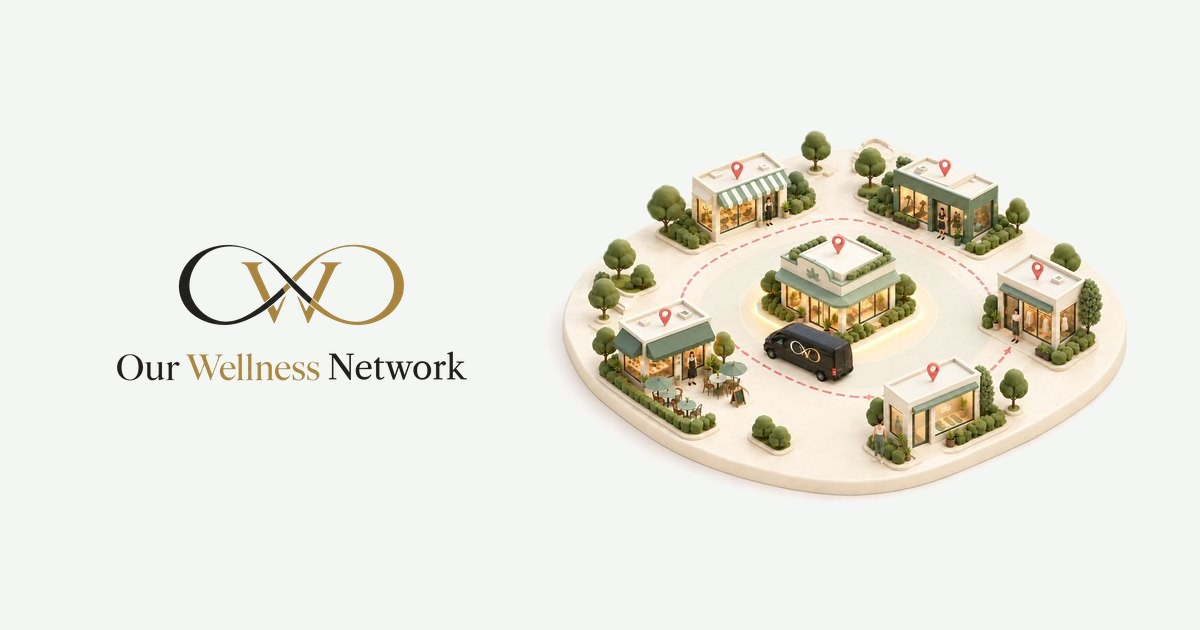
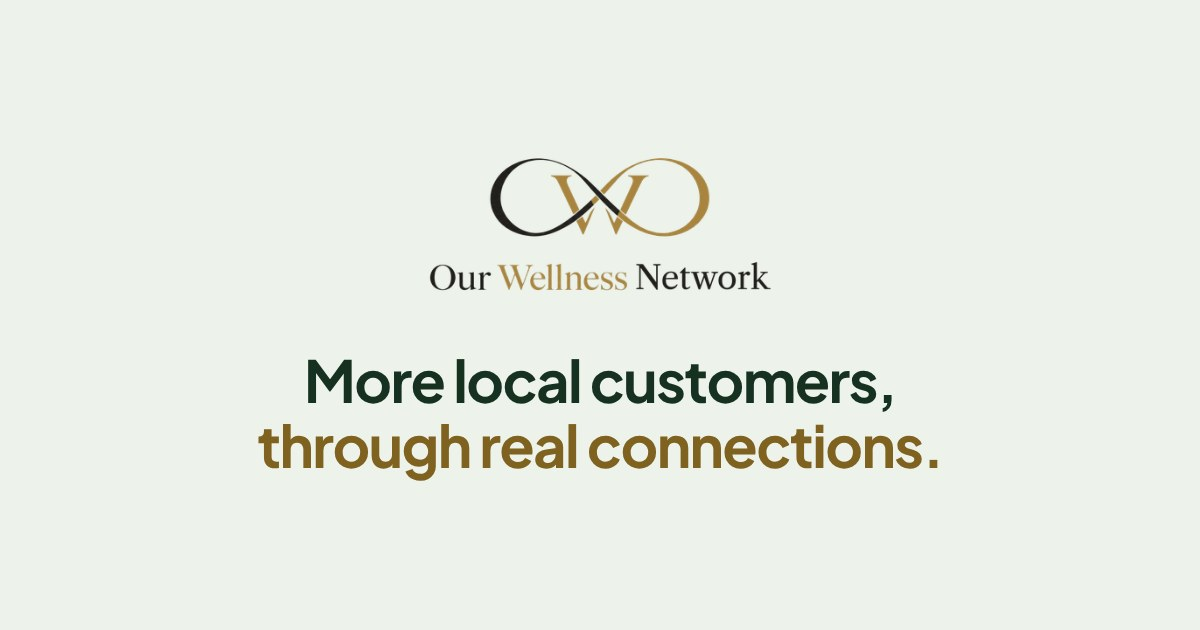
Simplify the site: review fixes
- Pricing and terms no longer assert a minimum term the owner has not confirmed: "after any
  minimum term agreed in writing, plans run month to month, with 30 days' notice".
- Treats are described as modest (coffee, pastries and snacks) where they are explained;
  exclusivity reads as the terms put it (partners who sign on, for as long as you are a client).
- Add-on pages: the repeated field-team paragraph becomes one plain line, the second staff-card
  explanation and "cherry on top" are gone, and the card row lines up without its icons.
- The portal screenshot gets the full width from 760px (cropped to the totals), the phone crop
  ends at the tiles, and smooth-scroll animation is off.
- /referral-network 301s to the home page so an old #section carries through; site.js maps the
  old How it works sections to the new ones. The dead hero-video rule and placeholder file go.
- Header without JavaScript stays on one line from 760px; the expo page logo gets its room back;
  the footer sits at the bottom of short pages.
- The share image is the logo and the headline on the page colour, no illustration.

Claude-Session: https://claude.ai/code/session_01QqY3Uip16oYiFzTZFxaAGH

Changed region(s): [[0.0925, 0.2111, 0.9558, 0.7841], [0.4008, 0.2413, 0.4625, 0.3619], [0.4317, 0.3619, 0.4625, 0.3921]]

diff --git a/index.html b/index.html
@@ -20,7 +20,7 @@
 <meta property="og:image" content="https://ouroptimization.com/assets/img/og-network.jpg">
 <meta property="og:image:width" content="1200">
 <meta property="og:image:height" content="630">
-<meta property="og:image:alt" content="The Our Wellness Network logo beside an illustrated neighborhood: a black van with the logo outside a local business, with five shops around it.">
+<meta property="og:image:alt" content="The Our Wellness Network logo above the line: More local customers, through real connections.">
 <meta name="twitter:card" content="summary_large_image">
 <meta name="twitter:title" content="Our Wellness Network | More Local Customers, Through Real Connections">
 <meta name="twitter:description" content="Our team visits nearby businesses in Oak Brook, Lombard, Elmhurst, Naperville, Downers Grove and Hinsdale, introduces your business and leaves your approved materials.">
@@ -90,7 +90,7 @@
       </ul>
     </div>
     <figure class="s-shot">
-      <picture><source media="(max-width:759.98px)" type="image/avif" srcset="/assets/img/portal2-phone-routes-390.avif 390w, /assets/img/portal2-phone-routes-780.avif 780w" sizes="min(300px, 82vw)" width="780" height="1688"><source media="(max-width:759.98px)" type="image/webp" srcset="/assets/img/portal2-phone-routes-390.webp 390w, /assets/img/portal2-phone-routes-780.webp 780w" sizes="min(300px, 82vw)" width="780" height="1688"><source media="(max-width:759.98px)" srcset="/assets/img/portal2-phone-routes-780.jpg 780w" sizes="min(300px, 82vw)" width="780" height="1688"><source type="image/avif" srcset="/assets/img/portal2-routes-800.avif 800w, /assets/img/portal2-routes-1280.avif 1280w, /assets/img/portal2-routes-1920.avif 1920w" sizes="(min-width:1180px) 640px, (min-width:900px) 56vw, calc(100vw - 64px)" width="1280" height="800"><source type="image/webp" srcset="/assets/img/portal2-routes-800.webp 800w, /assets/img/portal2-routes-1280.webp 1280w, /assets/img/portal2-routes-1920.webp 1920w" sizes="(min-width:1180px) 640px, (min-width:900px) 56vw, calc(100vw - 64px)" width="1280" height="800"><img src="/assets/img/portal2-routes-1280.jpg" width="1280" height="800" alt="Screenshot of the portal's sample account: totals for stops visited, stops still to visit, referral cards handed out, staff sign-ups, bookings by the front desk and businesses that joined." loading="lazy" decoding="async"></picture>
+      <picture><source media="(max-width:759.98px)" type="image/avif" srcset="/assets/img/portal2-phone-routes-390.avif 390w, /assets/img/portal2-phone-routes-780.avif 780w" sizes="min(300px, 82vw)" width="780" height="1688"><source media="(max-width:759.98px)" type="image/webp" srcset="/assets/img/portal2-phone-routes-390.webp 390w, /assets/img/portal2-phone-routes-780.webp 780w" sizes="min(300px, 82vw)" width="780" height="1688"><source media="(max-width:759.98px)" srcset="/assets/img/portal2-phone-routes-780.jpg 780w" sizes="min(300px, 82vw)" width="780" height="1688"><source type="image/avif" srcset="/assets/img/portal2-routes-800.avif 800w, /assets/img/portal2-routes-1280.avif 1280w, /assets/img/portal2-routes-1920.avif 1920w" sizes="(min-width:1100px) 960px, calc(100vw - 64px)" width="1280" height="800"><source type="image/webp" srcset="/assets/img/portal2-routes-800.webp 800w, /assets/img/portal2-routes-1280.webp 1280w, /assets/img/portal2-routes-1920.webp 1920w" sizes="(min-width:1100px) 960px, calc(100vw - 64px)" width="1280" height="800"><img src="/assets/img/portal2-routes-1280.jpg" width="1280" height="800" alt="Screenshot of the portal's sample account: totals for stops visited, stops still to visit, referral cards handed out, staff sign-ups, bookings by the front desk and businesses that joined." loading="lazy" decoding="async"></picture>
       <figcaption>Your client portal</figcaption>
     </figure>
   </div>
@@ -106,11 +106,11 @@
       </details>
       <details id="partners">
         <summary>Which businesses do you visit?<span class="sign" aria-hidden="true"></span></summary>
-        <div class="answer"><p>Businesses near you that share your customers and don&rsquo;t compete with you. Each partner agrees to promote one business of your kind: yours.</p></div>
+        <div class="answer"><p>Businesses near you that share your customers and don&rsquo;t compete with you. The ones that sign on as partners agree to promote one business of your kind, yours, for as long as you are a client.</p></div>
       </details>
       <details id="visits">
         <summary>What do you bring on a visit?<span class="sign" aria-hidden="true"></span></summary>
-        <div class="answer"><p>Your approved materials, coffee and treats, and a personal card for each staff member we meet. Treats are shared with the whole staff on every visit, whether or not anyone refers a customer. Each card has a tap tag and QR code, so you can see which partnerships are working.</p></div>
+        <div class="answer"><p>Your approved materials, a personal card for each staff member we meet, and modest treats: coffee, pastries and snacks. Treats are shared with the whole staff on every visit, whether or not anyone refers a customer. Each card has a tap tag and QR code, so you can see which partnerships are working.</p></div>
       </details>
       <details id="paid">
         <summary>Are partner businesses paid for referrals?<span class="sign" aria-hidden="true"></span></summary>

diff --git a/pricing.html b/pricing.html
@@ -4,7 +4,7 @@
 <meta charset="utf-8">
 <meta name="viewport" content="width=device-width, initial-scale=1">
 <title>Pricing: First Month $450, Then $600 or $1,100 | Our Wellness Network</title>
-<meta name="description" content="Your first month is $450, all in, with a written guarantee. Then $600 or $1,100 a month, month to month. For local businesses in Oak Brook, Elmhurst and Hinsdale.">
+<meta name="description" content="Your first month is $450, all in, with a written guarantee. Then $600 or $1,100 a month. For local businesses in Oak Brook, Elmhurst and Hinsdale.">
 <meta name="theme-color" content="#F3F6F2">
 <link rel="icon" href="/assets/owo-favicon.ico" sizes="16x16 32x32 48x48">
 <link rel="icon" type="image/png" sizes="32x32" href="/assets/owo-icon-32.png">
@@ -15,15 +15,15 @@
 <meta property="og:type" content="website">
 <meta property="og:site_name" content="Our Wellness Network">
 <meta property="og:title" content="Pricing: First Month $450, Then $600 or $1,100 | Our Wellness Network">
-<meta property="og:description" content="Your first month is $450, all in, with a written guarantee. Then $600 or $1,100 a month, month to month. For local businesses in Oak Brook, Elmhurst and Hinsdale.">
+<meta property="og:description" content="Your first month is $450, all in, with a written guarantee. Then $600 or $1,100 a month. For local businesses in Oak Brook, Elmhurst and Hinsdale.">
 <meta property="og:url" content="https://ouroptimization.com/pricing">
 <meta property="og:image" content="https://ouroptimization.com/assets/img/og-network.jpg">
 <meta property="og:image:width" content="1200">
 <meta property="og:image:height" content="630">
-<meta property="og:image:alt" content="The Our Wellness Network logo beside an illustrated neighborhood: a black van with the logo outside a local business, with five shops around it.">
+<meta property="og:image:alt" content="The Our Wellness Network logo above the line: More local customers, through real connections.">
 <meta name="twitter:card" content="summary_large_image">
 <meta name="twitter:title" content="Pricing: First Month $450, Then $600 or $1,100 | Our Wellness Network">
-<meta name="twitter:description" content="Your first month is $450, all in, with a written guarantee. Then $600 or $1,100 a month, month to month. For local businesses in Oak Brook, Elmhurst and Hinsdale.">
+<meta name="twitter:description" content="Your first month is $450, all in, with a written guarantee. Then $600 or $1,100 a month. For local businesses in Oak Brook, Elmhurst and Hinsdale.">
 <meta name="twitter:image" content="https://ouroptimization.com/assets/img/og-network.jpg">
 <link rel="preload" href="/assets/fonts/plus-jakarta-sans-latin-wght-normal.woff2" as="font" type="font/woff2" crossorigin>
 <link rel="stylesheet" href="/assets/site.css">
@@ -55,8 +55,8 @@
 </header>
 
 <main id="main" class="s-page" tabindex="-1">
-<!-- Simplified November 21, 2026: confirmed prices only. Founding rates, minimum terms and stop counts stay off
-     the page until the owner confirms them. -->
+<!-- Simplified November 21, 2026: confirmed prices only. Founding rates, stop counts and the length of any minimum
+     term stay off the page until the owner confirms them. -->
 <section class="s-hero s-hero-sm" aria-labelledby="pg-h">
   <div class="wrap">
     <h1 id="pg-h">Pricing</h1>
@@ -96,7 +96,7 @@
         <li>In-person visits</li>
         <li>Approved materials, left at each business (you supply the printing)</li>
         <li>Trackable staff cards, supplied at no charge</li>
-        <li>Coffee and treats for each partner&rsquo;s staff on every visit</li>
+        <li>Modest treats for each partner&rsquo;s staff on every visit: coffee, pastries and snacks</li>
         <li>Access to your client portal</li>
       </ul>
     </div>
@@ -104,7 +104,7 @@
       <h2 class="s-h2" id="terms-h">The terms</h2>
       <ul class="s-list">
         <li>Nothing renews on its own after the first month.</li>
-        <li>Plans run month to month, with <span class="nowrap">30 days&rsquo;</span> notice.</li>
+        <li>After any minimum term agreed in writing, plans run month to month, with <span class="nowrap">30 days&rsquo;</span> notice.</li>
         <li>One flat fee. It never changes with referrals, leads or bookings, and nobody is paid per referral or per customer.</li>
       </ul>
       <p class="s-more"><a href="/terms#tm-prices">Read the full terms</a></p>

diff --git a/online-search-network.html b/online-search-network.html
@@ -20,7 +20,7 @@
 <meta property="og:image" content="https://ouroptimization.com/assets/img/og-network.jpg">
 <meta property="og:image:width" content="1200">
 <meta property="og:image:height" content="630">
-<meta property="og:image:alt" content="The Our Wellness Network logo beside an illustrated neighborhood: a black van with the logo outside a local business, with five shops around it.">
+<meta property="og:image:alt" content="The Our Wellness Network logo above the line: More local customers, through real connections.">
 <meta name="twitter:card" content="summary_large_image">
 <meta name="twitter:title" content="Google Ads in Your Own Account | Our Wellness Network">
 <meta name="twitter:description" content="An add-on for your business: Google Ads for people in Elmhurst, Lombard or Downers Grove who hear about your business, then search for it. Run in your own account.">
@@ -40,7 +40,6 @@
 <symbol id="i-profile" viewBox="0 0 32 32"><g fill="none" stroke="currentColor" stroke-width="1.5" stroke-linecap="round" stroke-linejoin="round"><rect x="4.5" y="5.5" width="23" height="21" rx="2"/><circle cx="12" cy="13" r="3"/><path d="M7.5 21.5c.8-2.6 2.4-4 4.5-4s3.7 1.4 4.5 4M19 11.5h5M19 15h5M19 18.5h3"/></g></symbol>
 <symbol id="i-route" viewBox="0 0 32 32"><g fill="none" stroke="currentColor" stroke-width="1.5" stroke-linecap="round" stroke-linejoin="round"><circle cx="7" cy="25" r="2.5"/><circle cx="25" cy="7" r="2.5"/><path d="M9.5 25H20a4.5 4.5 0 0 0 0-9h-8a4.5 4.5 0 0 1 0-9h10.5" stroke-dasharray="3 3"/></g></symbol>
 <symbol id="i-search" viewBox="0 0 32 32"><g fill="none" stroke="currentColor" stroke-width="1.5" stroke-linecap="round" stroke-linejoin="round"><circle cx="14" cy="14" r="8"/><path d="m20 20 7.5 7.5"/><path d="M10.5 14a3.5 3.5 0 0 1 3.5-3.5"/></g></symbol>
-<symbol id="i-tap" viewBox="0 0 32 32"><g fill="none" stroke="currentColor" stroke-width="1.5" stroke-linecap="round" stroke-linejoin="round"><rect x="7.5" y="4.5" width="12" height="23" rx="2.5"/><path d="M12.5 23.5h2"/><path d="M23 12a6 6 0 0 1 0 8M26 9a10.5 10.5 0 0 1 0 14"/></g></symbol>
 </svg>
 
 <header class="site-header" id="top">
@@ -91,11 +90,10 @@
     <div class="section-head">
       <p class="eyebrow">Why ads come last</p>
       <h2 id="why-h">We drive the growth <em class="dn-line">behind the ads.</em></h2>
-      <p class="intro">People hear about your business first: from the staff at a business near you, or from a friend. Then they search for you. The ads are there for that search, so they come last, as the cherry on top.</p>
+      <p class="intro">People hear about your business first: from the staff at a business near you, or from a friend. Then they search for you. The ads are there for that search, so they come last.</p>
     </div>
-    <ul class="cardgrid c4 ga-first">
-      <li><svg aria-hidden="true"><use href="#i-route"/></svg><h3><a href="/#how-it-works">Referral routes</a></h3><p>Our field team visits 5 matched businesses near you and introduces your business to their staff.</p></li>
-      <li><svg aria-hidden="true"><use href="#i-tap"/></svg><h3>Staff cards</h3><p>Every staff member we meet gets a personal <span class="nowrap">tap-to-schedule</span> card that opens your first-visit offer.</p></li>
+    <ul class="cardgrid ga-first">
+      <li><h3><a href="/#how-it-works">Referral routes</a></h3><p>Our field team visits 5 matched businesses near you and introduces your business to their staff.</p></li>
       <li class="ga-cherry"><h3>Then online search</h3><p>For the people who heard about you and search for your business.</p></li>
     </ul>
   </div>
@@ -130,7 +128,7 @@
       <div class="pg-step-copy">
         <p class="eyebrow">Next step</p>
         <h2 id="step-next-h"><a href="/#how-it-works">See how a route works</a></h2>
-        <p>Google Ads is an add-on. Our field team is the service: we visit the businesses around you, build relationships with their staff, and turn them into a referral network you can track.</p>
+        <p>Google Ads is an add-on to our in-person visits.</p>
       </div>
       <span class="pg-step-go" aria-hidden="true">See how it works<svg><use href="#i-arrow"/></svg></span>
     </div>

diff --git a/terms.html b/terms.html
@@ -20,7 +20,7 @@
 <meta property="og:image" content="https://ouroptimization.com/assets/img/og-network.jpg">
 <meta property="og:image:width" content="1200">
 <meta property="og:image:height" content="630">
-<meta property="og:image:alt" content="The Our Wellness Network logo beside an illustrated neighborhood: a black van with the logo outside a local business, with five shops around it.">
+<meta property="og:image:alt" content="The Our Wellness Network logo above the line: More local customers, through real connections.">
 <meta name="twitter:card" content="summary_large_image">
 <meta name="twitter:title" content="Terms of Service | Our Wellness Network">
 <meta name="twitter:description" content="Terms for Our Wellness Network: how referral routes, the first-month trial and its guarantee, our plans and add-ons work, and what we do and do not promise.">
@@ -90,7 +90,7 @@
       <p><b>Published prices.</b> Our <a href="/pricing">pricing page</a> lists our current prices: the <span class="nowrap">first-month</span> trial, and the Neighborhood and Community plans after it, each with the number of routes it includes each month. The prices you sign up at are confirmed in writing before you start. If we change a published price, the new price applies to new <span class="nowrap">sign-ups</span>; for a plan you already have, we tell you in writing at least 30 days before it applies.</p>
       <p><b>The trial.</b> Your first month is a trial: one route of 5 matched businesses, your codes set up and your dashboard, for the trial fee on our pricing page. After the trial, nothing renews unless you choose a plan.</p>
       <p><b>The trial guarantee.</b> If we have not visited all 5 businesses and set up your codes within 30 days, your trial fee comes back. You keep the partner relationships either way.</p>
-      <p><b>Plans.</b> Each plan has one flat monthly fee, set in advance. It never moves with referrals, leads, bookings or revenue, and none of it goes to any business or anyone we visit, apart from the coffee and treats we bring for their staff. Nobody is paid per referral or per customer. Plans run month to month, and either side can end a plan with 30 days&rsquo; written notice; email counts.</p>
+      <p><b>Plans.</b> Each plan has one flat monthly fee, set in advance. It never moves with referrals, leads, bookings or revenue, and none of it goes to any business or anyone we visit, apart from the coffee and treats we bring for their staff. Nobody is paid per referral or per customer. After any minimum term agreed in writing before you start, plans run month to month, and either side can end a plan with 30 days&rsquo; written notice; email counts.</p>
       <p><b>Who supplies what.</b> You provide your printed materials. We program and supply the <span class="nowrap">tap-and-scan</span> tags at no charge, and we bring the coffee and treats.</p>
       <p><b>Add-ons.</b> Google Ads, review tags, a website and a private dinner are each priced on a call and quoted for your business before they start. Each quote states what is included in our price and what, if anything, is paid separately. Google Ads spend is paid by your business directly to Google, in your own account. A dinner is one flat fee per event, with the restaurant and food included. The price is fixed in writing before you commit, and there is no monthly contract.</p>
       <p>A quote covers the work as it was described when we quoted it. If the details change, for example a different venue or an added service, we will requote so the new price is clear to you before anything moves forward.</p>

diff --git a/assets/site.css b/assets/site.css
@@ -38,9 +38,6 @@
 }
 *,*::before,*::after{box-sizing:border-box}
 html{-webkit-text-size-adjust:100%;text-size-adjust:100%;scroll-padding-top:84px}
-@media (prefers-reduced-motion:no-preference){
-  html{scroll-behavior:smooth}
-}
 body{margin:0;background:var(--ground);color:var(--ink-2);font:400 1.03rem/1.65 var(--sans);font-kerning:normal;-webkit-font-smoothing:antialiased;-moz-osx-font-smoothing:grayscale;overflow-x:hidden}
 @media (min-width:768px){
   body{font-size:1.0625rem}
@@ -1143,7 +1140,9 @@ h1 em,h2 em,.pg-hero h1 em,.ct-head h1 em,.svc-hero h1 em,.dn-sent h1 em,.xp-her
   .site-nav a::after{content:none}
   .site-nav a[aria-current="page"],.js .site-nav a[aria-current="page"]{box-shadow:none;background:var(--accent-soft);color:var(--accent);font-weight:650}
   .site-header,.site-header:not(:has(.site-nav)){top:0}
-  .header-row,.site-header:not(:has(.site-nav)) .header-row{display:flex;flex-wrap:nowrap;grid-template-columns:none;grid-template-rows:none;gap:6px;min-height:76px;padding-block:0}
+  .header-row{display:flex;flex-wrap:nowrap;grid-template-columns:none;grid-template-rows:none;gap:6px;min-height:76px;padding-block:0}
+  html:not(.js) .header-row{flex-wrap:nowrap;padding-bottom:0}
+  html:not(.js) .site-nav{order:0;width:auto}
   .brand{margin-right:0}
   .btn-head{order:0}
   html{scroll-padding-top:92px}
@@ -1178,16 +1177,17 @@ h1 em,h2 em,.pg-hero h1 em,.ct-head h1 em,.svc-hero h1 em,.dn-sent h1 em,.xp-her
 .s-steps p{margin-top:8px;color:var(--ink-2)}
 
 /* what you get, beside the one portal screenshot */
-.s-get{display:grid;gap:clamp(32px,4.6vw,56px);align-items:center}
-@media (min-width:900px){.s-get{grid-template-columns:minmax(0,.75fr) minmax(0,1.25fr)}}
+.s-get{display:grid;gap:clamp(28px,4vw,44px)}
+@media (min-width:760px){.s-get .s-list{grid-template-columns:repeat(2,minmax(0,max-content));gap:14px 48px}}
 .s-list{list-style:none;display:grid;gap:14px}
 .s-list li{position:relative;padding-left:30px;font-size:clamp(1.06rem,1rem + .25vw,1.18rem);font-weight:550;color:var(--ink)}
 .s-list li::before{content:"";position:absolute;left:2px;top:.5em;width:12px;height:7px;border-left:2px solid var(--accent);border-bottom:2px solid var(--accent);transform:rotate(-45deg)}
-.s-shot{margin:0;min-width:0}
+.s-shot{width:100%;max-width:960px;margin:0;min-width:0}
 .s-shot img{display:block;width:100%;height:auto;background:#fff;border:1px solid var(--line);border-radius:var(--r-panel);box-shadow:var(--sh-2)}
 .s-shot figcaption{margin-top:12px;font-size:.92rem;color:var(--ink-3)}
+@media (min-width:760px){.s-shot img{aspect-ratio:1280/628;object-fit:cover;object-position:top}}
 @media (max-width:759.98px){
-  .s-shot img{width:min(300px,82vw);margin-inline:auto;aspect-ratio:780/1230;object-fit:cover;object-position:top;border-radius:22px}
+  .s-shot img{width:min(300px,82vw);margin-inline:auto;aspect-ratio:780/1220;object-fit:cover;object-position:top;border-radius:22px}
   .s-shot figcaption{text-align:center}
 }
 
@@ -1225,3 +1225,7 @@ h1 em,h2 em,.pg-hero h1 em,.ct-head h1 em,.svc-hero h1 em,.dn-sent h1 em,.xp-her
 .s-addons li{display:flex;flex-direction:column;gap:6px;padding:20px 22px;background:var(--surface,#fff);border:1px solid var(--line);border-radius:var(--r-card)}
 .s-addons a{font-size:1.06rem}
 .s-addons span{color:var(--ink-2);font-size:.97rem}
+
+/* short pages (404, /thanks): the footer stays at the bottom of the window */
+body{display:flex;flex-direction:column;min-height:100vh;min-height:100dvh}
+body>main{flex:1 0 auto}

diff --git a/review-tags.html b/review-tags.html
@@ -20,7 +20,7 @@
 <meta property="og:image" content="https://ouroptimization.com/assets/img/og-network.jpg">
 <meta property="og:image:width" content="1200">
 <meta property="og:image:height" content="630">
-<meta property="og:image:alt" content="The Our Wellness Network logo beside an illustrated neighborhood: a black van with the logo outside a local business, with five shops around it.">
+<meta property="og:image:alt" content="The Our Wellness Network logo above the line: More local customers, through real connections.">
 <meta name="twitter:card" content="summary_large_image">
 <meta name="twitter:title" content="Tap-to-Review NFC Tags | Our Wellness Network">
 <meta name="twitter:description" content="An add-on for businesses in Oak Brook, Naperville and Hinsdale: branded NFC review tags and QR codes that open your Google review form in one tap or scan. Priced on a call.">
@@ -106,7 +106,7 @@
         <h3 class="rt-nfc-h">What is an NFC tag?</h3>
         <p>A small chip inside the stand, card or sticker. Hold the top of a phone near it and the page it carries opens, with no app to download. It is the same tap people use to pay with their phone.</p>
         <p>For phones that don&rsquo;t read NFC, a QR code printed on the same piece, if it has one, opens the same page.</p>
-        <p>On your referral routes, the staff codes use the same tap to open your <span class="nowrap">first-visit</span> offer. Review tags are separate: they open your Google review form, for customers who have already been in.</p>
+        <p>Review tags open your Google review form, for customers who have already been in.</p>
       </div>
     </div>
     <ol class="steps">
@@ -199,7 +199,7 @@
       <div class="pg-step-copy">
         <p class="eyebrow">Next step</p>
         <h2 id="step-next-h"><a href="/#how-it-works">See how a route works</a></h2>
-        <p>Review tags are an add-on. Our field team is the service: we visit the businesses around you, build relationships with their staff, and turn them into a referral network you can track.</p>
+        <p>Review tags are an add-on to our in-person visits.</p>
       </div>
       <span class="pg-step-go" aria-hidden="true">See how it works<svg><use href="#i-arrow"/></svg></span>
     </div>

diff --git a/website-design.html b/website-design.html
@@ -20,7 +20,7 @@
 <meta property="og:image" content="https://ouroptimization.com/assets/img/og-network.jpg">
 <meta property="og:image:width" content="1200">
 <meta property="og:image:height" content="630">
-<meta property="og:image:alt" content="The Our Wellness Network logo beside an illustrated neighborhood: a black van with the logo outside a local business, with five shops around it.">
+<meta property="og:image:alt" content="The Our Wellness Network logo above the line: More local customers, through real connections.">
 <meta name="twitter:card" content="summary_large_image">
 <meta name="twitter:title" content="Website Redesign for Local Businesses | Our Wellness Network">
 <meta name="twitter:description" content="An add-on for businesses in Lombard, Elmhurst and Downers Grove: your website rebuilt around the customers you want, with a clear way to call or book on every page.">
@@ -181,7 +181,7 @@
       <div class="pg-step-copy">
         <p class="eyebrow">Next step</p>
         <h2 id="step-next-h"><a href="/#how-it-works">See how a route works</a></h2>
-        <p>A website is an add-on. Our field team is the service: we visit the businesses around you, build relationships with their staff, and turn them into a referral network you can track.</p>
+        <p>A website is an add-on to our in-person visits.</p>
       </div>
       <span class="pg-step-go" aria-hidden="true">See how it works<svg><use href="#i-arrow"/></svg></span>
     </div>

diff --git a/patient-network.html b/patient-network.html
@@ -20,7 +20,7 @@
 <meta property="og:image" content="https://ouroptimization.com/assets/img/og-network.jpg">
 <meta property="og:image:width" content="1200">
 <meta property="og:image:height" content="630">
-<meta property="og:image:alt" content="The Our Wellness Network logo beside an illustrated neighborhood: a black van with the logo outside a local business, with five shops around it.">
+<meta property="og:image:alt" content="The Our Wellness Network logo above the line: More local customers, through real connections.">
 <meta name="twitter:card" content="summary_large_image">
 <meta name="twitter:title" content="Private Customer Dinners | Our Wellness Network">
 <meta name="twitter:description" content="An add-on for your business: a private restaurant dinner for your best customers in Oak Brook, Hinsdale or Naperville. You host. We handle the rest. Quoted per event.">
@@ -208,7 +208,7 @@
       <div class="pg-step-copy">
         <p class="eyebrow">Next step</p>
         <h2 id="step-next-h"><a href="/#how-it-works">See how a route works</a></h2>
-        <p>The dinner is an add-on. Our field team is the service: we visit the businesses around you, build relationships with their staff, and turn them into a referral network you can track.</p>
+        <p>The dinner is an add-on to our in-person visits.</p>
       </div>
       <span class="pg-step-go" aria-hidden="true">See how it works<svg><use href="#i-arrow"/></svg></span>
     </div>

diff --git a/assets/site.js b/assets/site.js
@@ -57,7 +57,10 @@
      screenshot, /#industries opens "Who is this for?", and the old How it works and treats sections open their answers. */
   var ALIAS = {
     portal: 'what-you-get', breakdown: 'what-you-get', dashboard: 'what-you-get', how: 'how-it-works', referrals: 'how-it-works',
-    'flyer-drops': 'how-it-works', industries: 'who', treats: 'visits', 'in-person': 'visits', compliance: 'paid'
+    'flyer-drops': 'how-it-works', industries: 'who', treats: 'visits', 'in-person': 'visits', compliance: 'paid',
+    /* sections of the old How it works page (/referral-network now 301s to the home page, keeping its #section) */
+    matching: 'how-it-works', choosing: 'how-it-works', route: 'how-it-works', month: 'how-it-works', roles: 'how-it-works',
+    nfc: 'visits', agreement: 'paid'
   };
   var alias = /^#([A-Za-z][\w-]*)$/.exec(window.location.hash);
   if (alias && ALIAS[alias[1]] && !document.getElementById(alias[1])) {

diff --git a/privacy.html b/privacy.html
@@ -20,7 +20,7 @@
 <meta property="og:image" content="https://ouroptimization.com/assets/img/og-network.jpg">
 <meta property="og:image:width" content="1200">
 <meta property="og:image:height" content="630">
-<meta property="og:image:alt" content="The Our Wellness Network logo beside an illustrated neighborhood: a black van with the logo outside a local business, with five shops around it.">
+<meta property="og:image:alt" content="The Our Wellness Network logo above the line: More local customers, through real connections.">
 <meta name="twitter:card" content="summary_large_image">
 <meta name="twitter:title" content="Privacy Policy | Our Wellness Network">
 <meta name="twitter:description" content="What our call request, expo table and partner sign-up forms collect for Our Wellness Network, how we use it, who else sees it, and how to ask us to delete it.">

diff --git a/thanks.html b/thanks.html
@@ -20,7 +20,7 @@
 <meta property="og:image" content="https://ouroptimization.com/assets/img/og-network.jpg">
 <meta property="og:image:width" content="1200">
 <meta property="og:image:height" content="630">
-<meta property="og:image:alt" content="The Our Wellness Network logo beside an illustrated neighborhood: a black van with the logo outside a local business, with five shops around it.">
+<meta property="og:image:alt" content="The Our Wellness Network logo above the line: More local customers, through real connections.">
 <meta name="twitter:card" content="summary_large_image">
 <meta name="twitter:title" content="Thank You | Our Wellness Network">
 <meta name="twitter:description" content="Thank you. We&rsquo;ll call at the time you picked and show you the nearby businesses we would visit for you. To talk sooner, call or text 331-271-6851.">

diff --git a/expo-vendors.html b/expo-vendors.html
@@ -20,7 +20,7 @@
 <meta property="og:image" content="https://ouroptimization.com/assets/img/og-network.jpg">
 <meta property="og:image:width" content="1200">
 <meta property="og:image:height" content="630">
-<meta property="og:image:alt" content="The Our Wellness Network logo beside an illustrated neighborhood: a black van with the logo outside a local business, with five shops around it.">
+<meta property="og:image:alt" content="The Our Wellness Network logo above the line: More local customers, through real connections.">
 <meta name="twitter:card" content="summary_large_image">
 <meta name="twitter:title" content="Reserve a Table: Baby &amp; Kids Health Expo">
 <meta name="twitter:description" content="One table per specialty at an indoor expo for expecting and new parents near Glendale Heights, IL. Reserve your practice’s category.">
